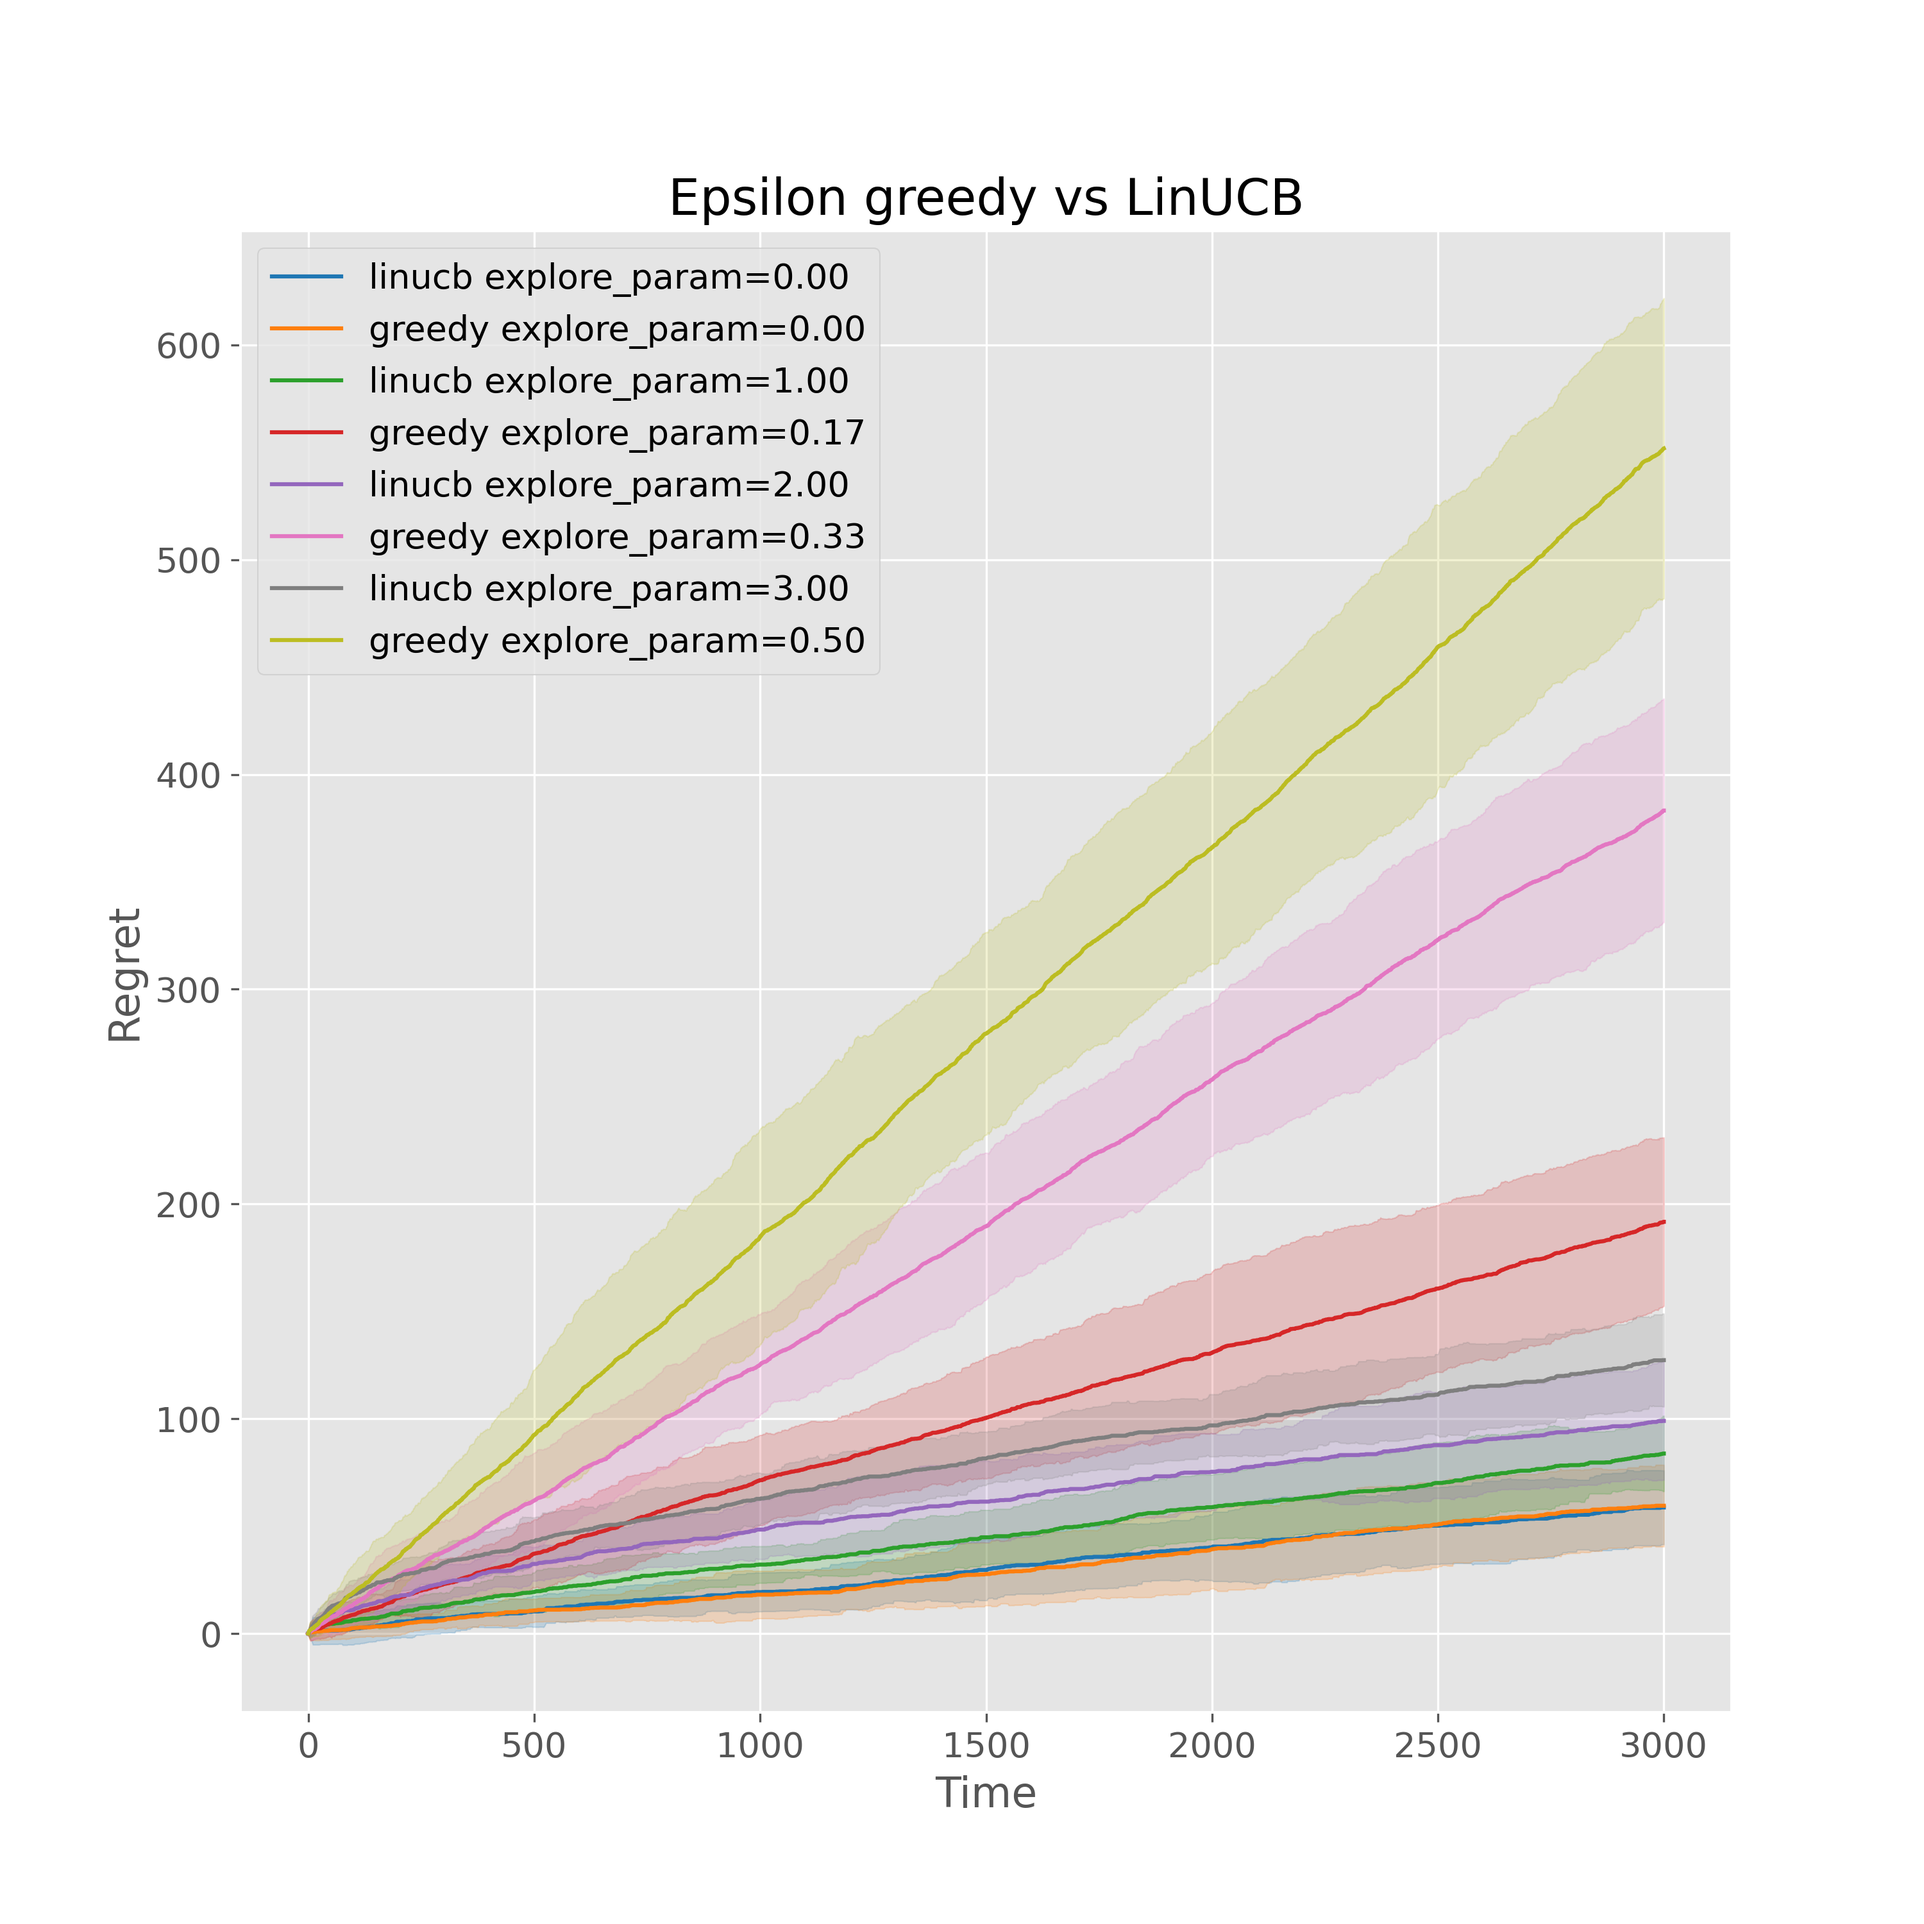
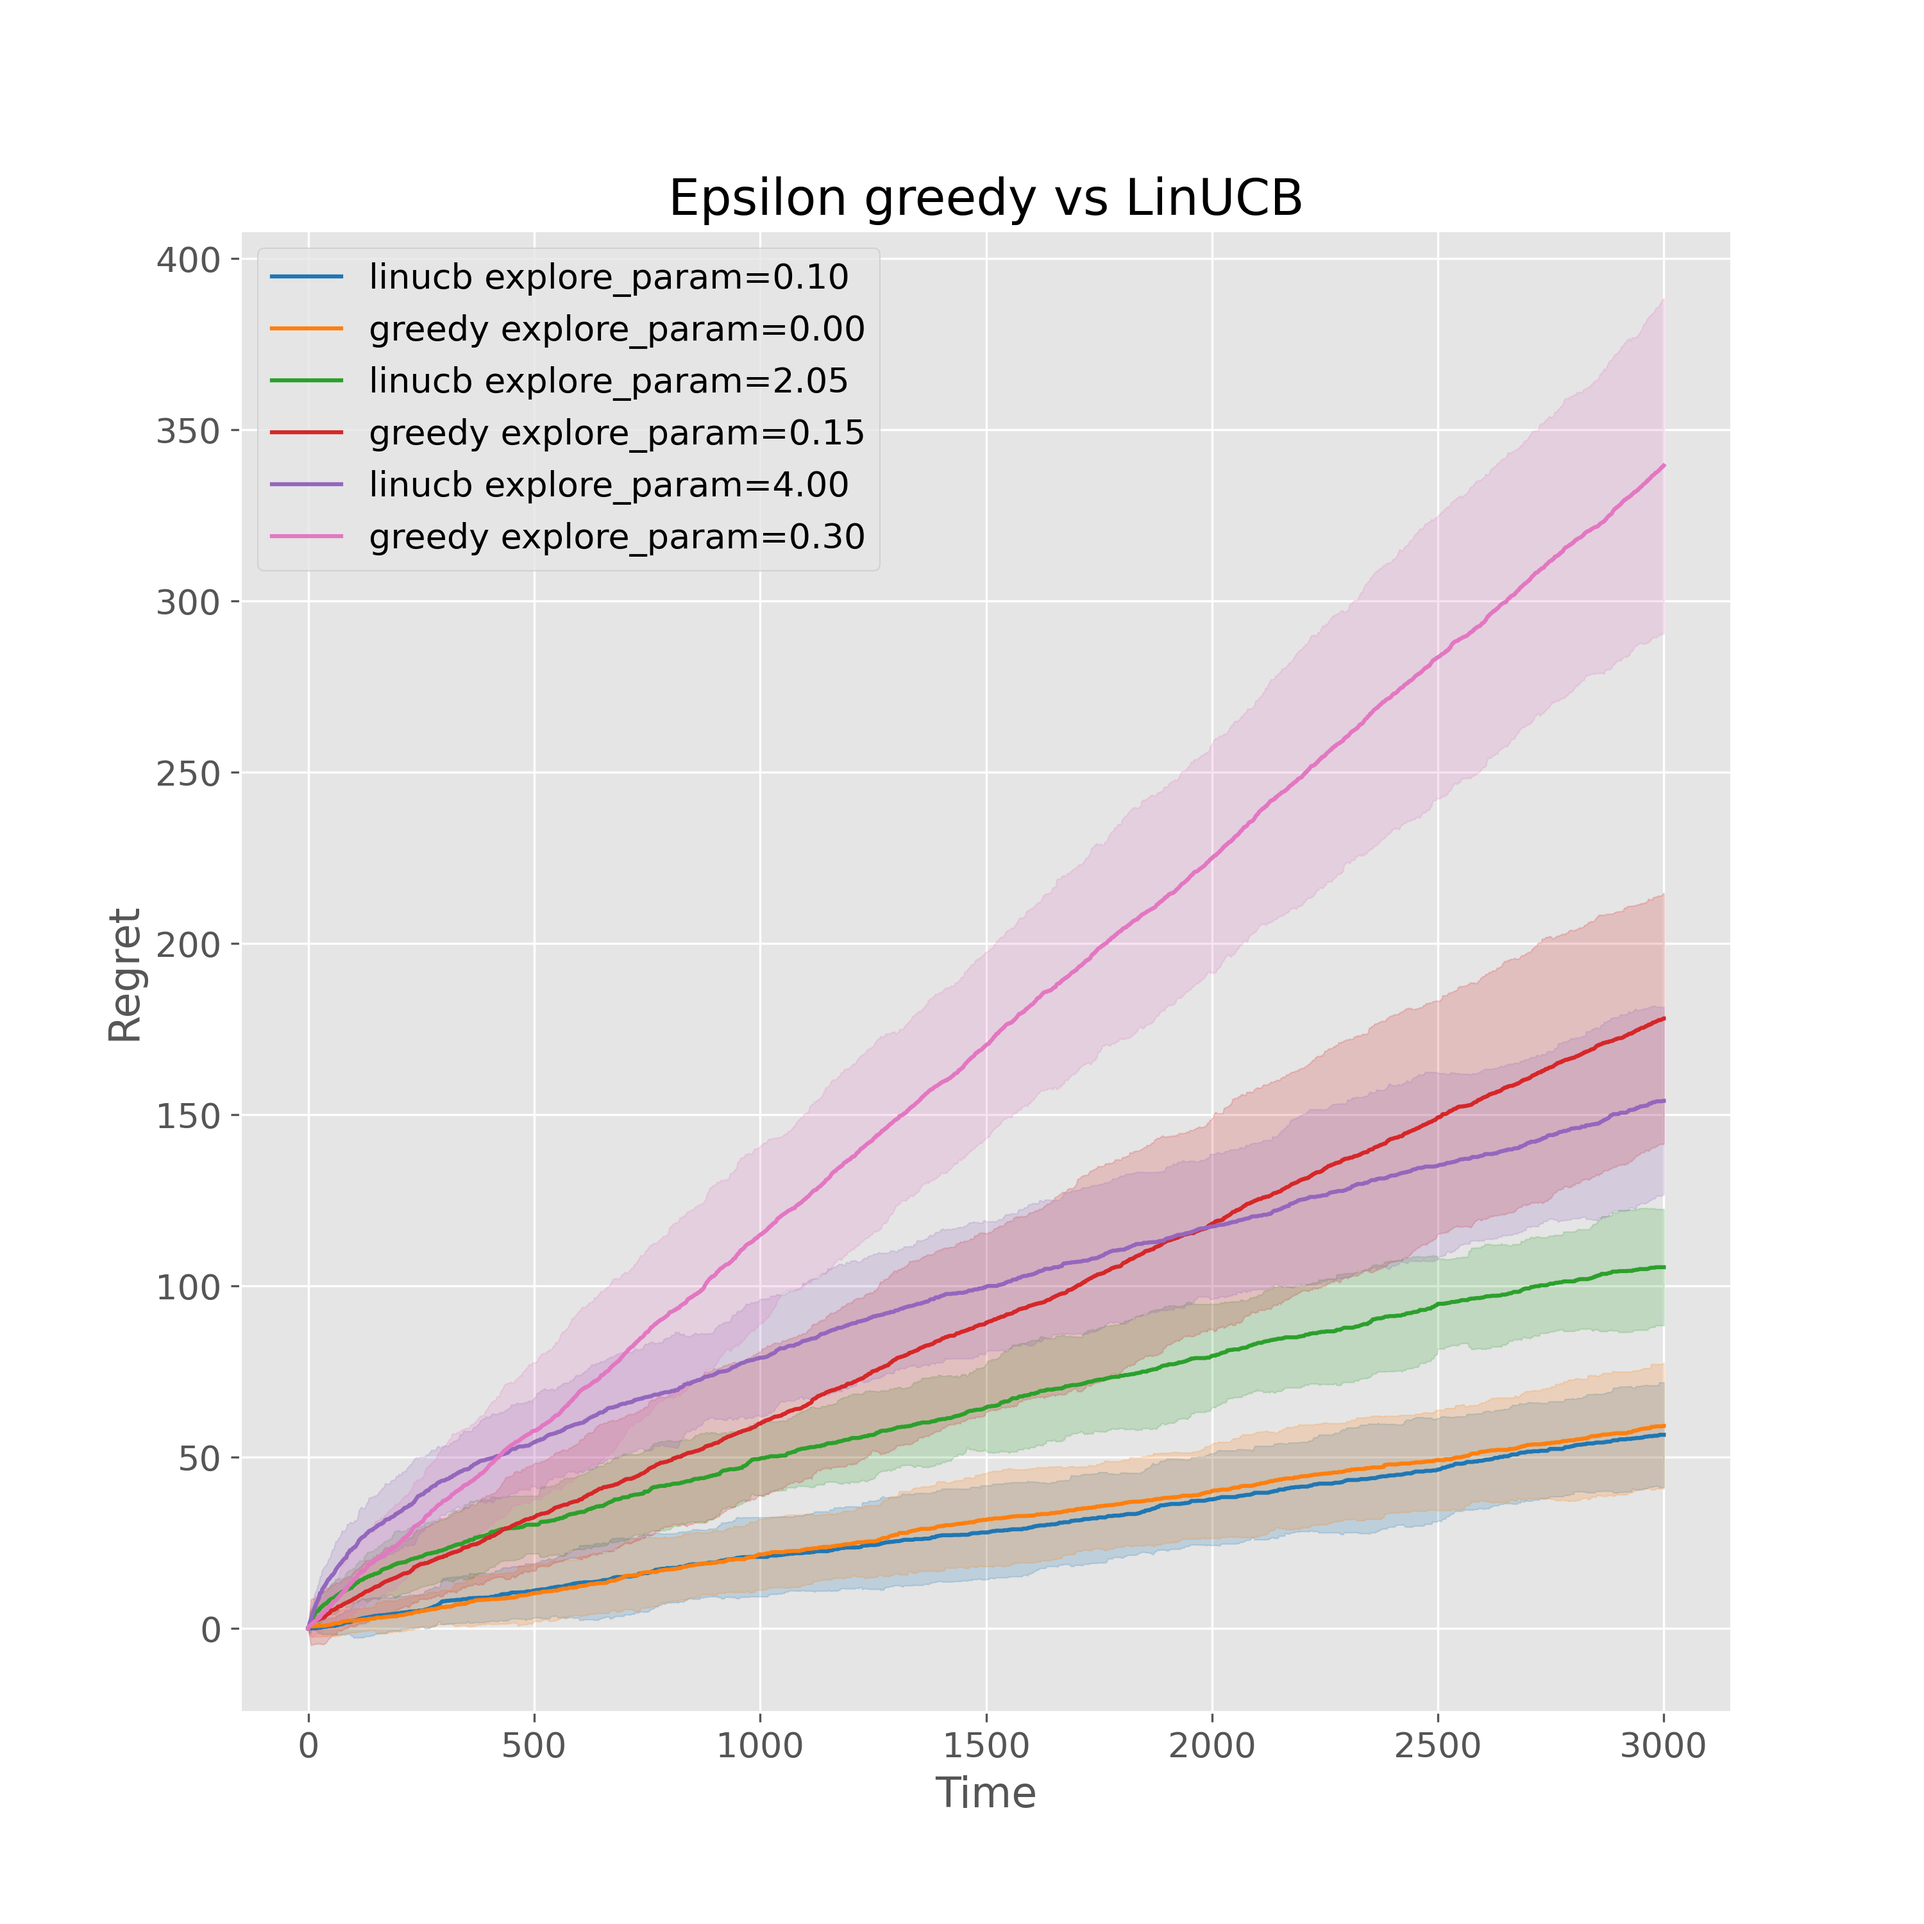
added code to make comparison of percentile plots

diff --git a/metric_bandits/scripts/online_similarity/linear/make_percentile_plots.py b/metric_bandits/scripts/online_similarity/linear/make_percentile_plots.py
@@ -1,0 +1,64 @@
+"""
+Code to look at values of regime change for linucb
+and display a graph for report
+"""
+
+import os
+from collections import defaultdict
+
+import matplotlib.pyplot as plt
+import numpy as np
+import pandas as pd
+
+from metric_bandits.constants.paths import FIGURES_PATH
+from metric_bandits.utils.plots import colors, make_plots_pretty
+from metric_bandits.utils.read_write import load_object
+
+folder = "online_similarity/linear/"
+names = ["epsilon_vs_linucb_blobs_regime_change", "epsilon_vs_linucb_blobs"]
+for name in names:
+    make_plots_pretty()
+
+    fig, ax = plt.subplots(1, 1, figsize=(12, 10))
+
+    obj = load_object(name)
+
+    table = defaultdict(list)
+    for i, key in enumerate(obj.keys()):
+        mean = np.mean(obj[key], axis=0)[-1]
+        std = np.std(obj[key], axis=0)[-1]
+        ci_low = np.percentile(obj[key], 2.5, axis=0)[-1]
+        ci_high = np.percentile(obj[key], 97.5, axis=0)[-1]
+
+        table["name"].append(key)
+        table["mean"].append(mean)
+        table["std"].append(std)
+        table["ci_low"].append(ci_low)
+        table["ci_high"].append(ci_high)
+
+        ax.scatter(
+            [i],
+            [np.mean(obj[key], axis=0)[-1]],
+            s=100,
+            c=colors[i],
+            marker="o",
+            label=key,
+        )
+        ax.errorbar(
+            [i],
+            [np.mean(obj[key], axis=0)[-1]],
+            yerr=[[ci_low], [ci_high]],
+            fmt="o",
+            c=colors[i],
+        )
+
+    # adjust plot settings
+    ax.set_title("Final Regret")
+    ax.set_ylabel("Final Regret")
+    # set the ticks to match names
+    ax.set_xticks([], [])
+    ax.legend()
+    plt.savefig(os.path.join(FIGURES_PATH, folder, f"{name}.png"), dpi=210)
+
+    df = pd.DataFrame(table)
+    print(df)

diff --git a/metric_bandits/scripts/online_similarity/linear/epsilon_vs_linear_blobs.py b/metric_bandits/scripts/online_similarity/linear/epsilon_vs_linear_blobs.py
@@ -22,13 +22,13 @@ reg = 1.0
 T = 3000
 batch_size = 5
 persistence = 2
-eval_freq = 2
-to_eval = ["l2_loss_linear"]
+eval_freq = 20000
 possible_actions = [1]
+to_eval = []
 
 # Constants for UCB
 active = False
-num_samples = 20
+num_samples = 30
 
 
 # constants for plotting
@@ -43,8 +43,8 @@ y_label = "Regret"
 # set up the enviromenent and model
 eval_metrics = defaultdict(list)
 
-explore_params_ucb = np.linspace(0.0, 5, 6)
-explore_params_greedy = np.linspace(0.0, 0.5, 4)
+explore_params_ucb = np.linspace(0.1, 4, 3)
+explore_params_greedy = np.linspace(0.0, 0.3, 3)
 
 
 for i in range(num_samples):

diff --git a/metric_bandits/scripts/online_similarity/linear/epsilon_vs_linear_blobs_regime_change.py b/metric_bandits/scripts/online_similarity/linear/epsilon_vs_linear_blobs_regime_change.py
@@ -29,7 +29,7 @@ pregime_change = 3 / T
 
 # Constants for UCB
 active = False
-num_samples = 20
+num_samples = 30
 
 
 # constants for plotting
